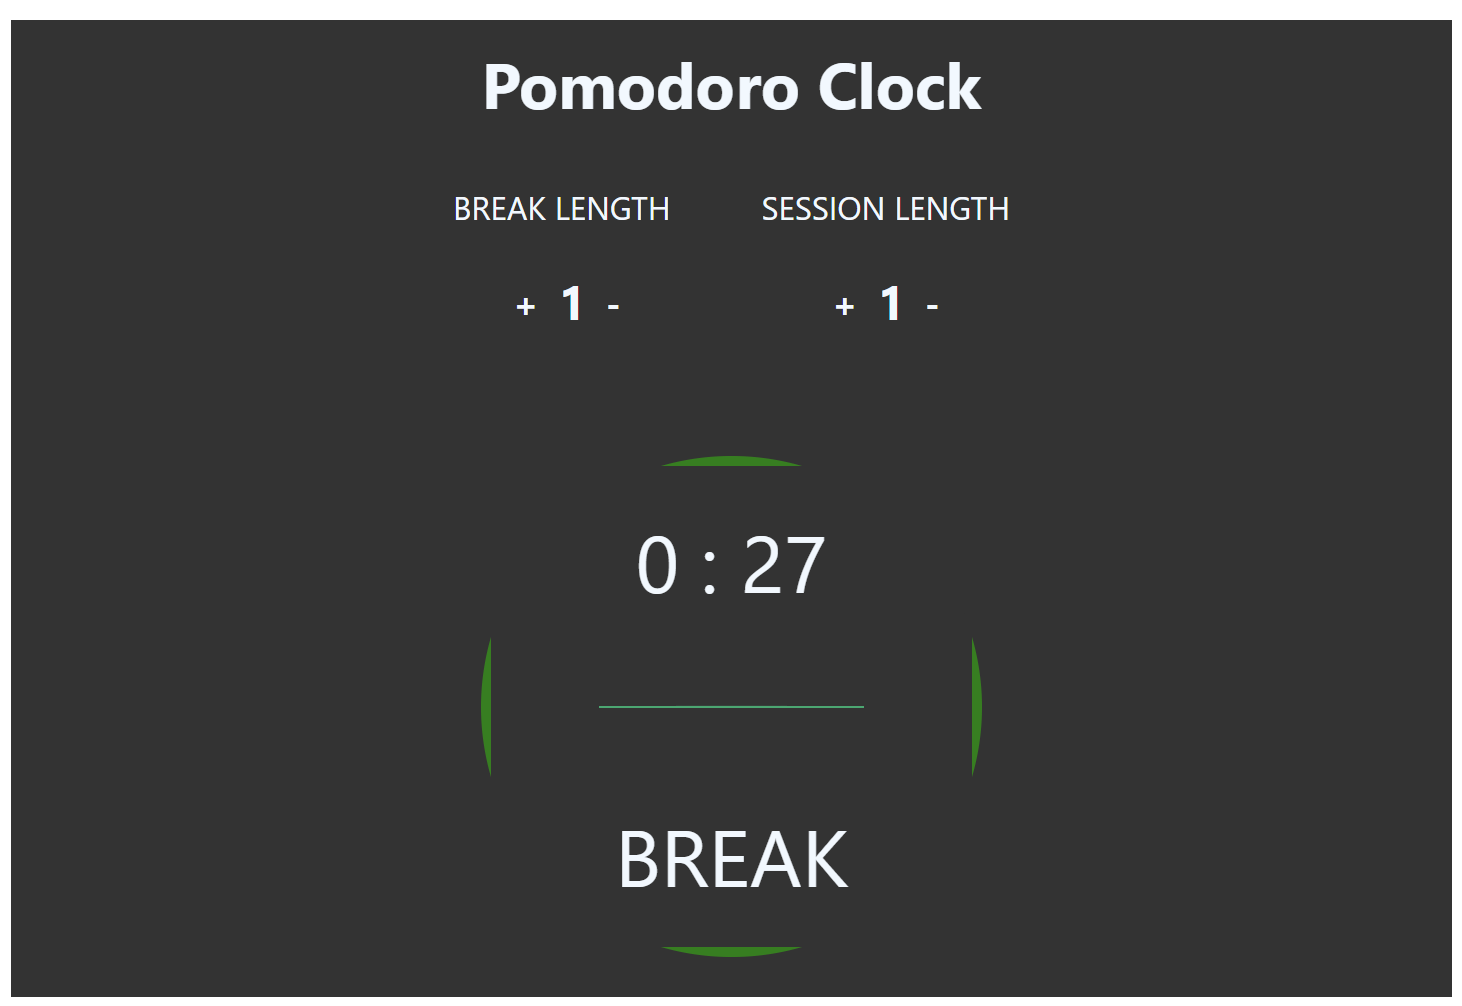
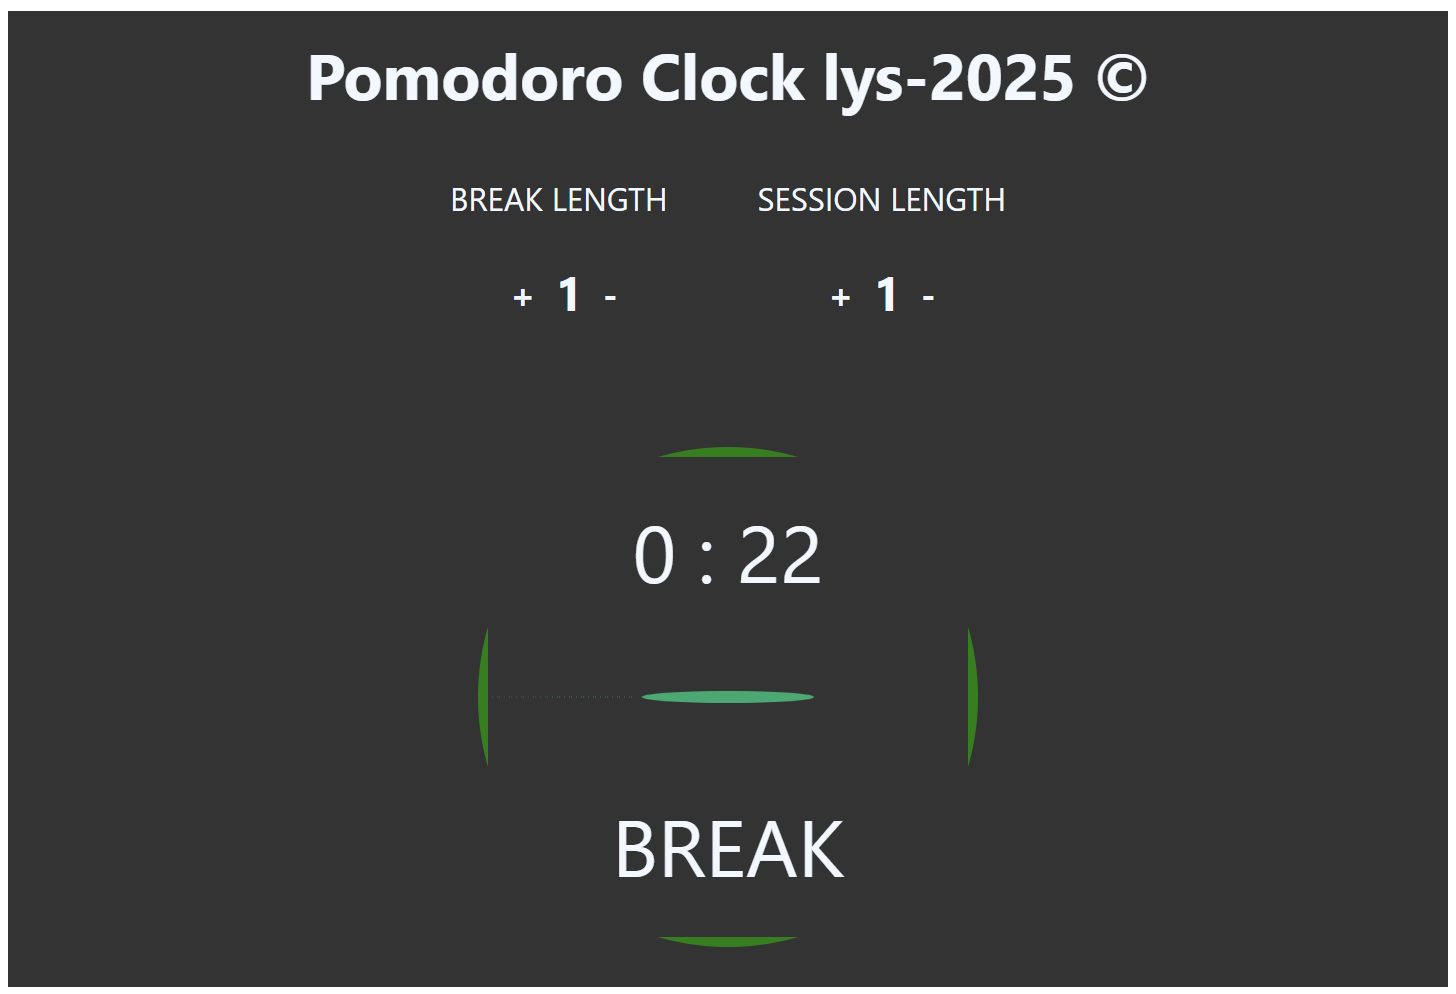
update index

diff --git a/AdvancedJS/AssignmentPomodoroClock/index.js b/AdvancedJS/AssignmentPomodoroClock/index.js
@@ -4,9 +4,9 @@ const breakObj = {
     contentCount: document.getElementById('break-content'),
     contentTimer: document.getElementById('display-break'),
     value: 1,
-    second: 60,
+    second: 0,
     timer: undefined,
-    isRunning: false
+    isRunning: false,
 }
 
 const sessionObj = {
@@ -15,7 +15,7 @@ const sessionObj = {
     contentCount: document.getElementById('session-content'),
     contentTimer: document.getElementById('display-session'),
     value: 1,
-    second: 60,
+    second: 0,
     timer: undefined,
     isRunning: false,
 }
@@ -23,22 +23,23 @@ const sessionObj = {
 slider = {
     display: document.querySelector('.display'),
     area: document.querySelector('.slider'),
-    firstValue: 0,
-    value: 0
+    firstValueSession: 0,
+    firstValueBreak: 0,
+    value: 0,
+    sliderWidth: 0
 }
 
-let timer;
 let isTimerRunning = false
 
 breakObj.plusBtn.onclick = () => {
-    if (!sessionObj.isRunning && !breakObj.isRunning) {
+    if (!isTimerRunning) {
         breakObj.value++
         breakObj.contentCount.textContent = breakObj.value
     }
-
 }
+
 breakObj.minusBtn.onclick = () => {
-    if (!sessionObj.isRunning && !breakObj.isRunning) {
+    if (!isTimerRunning) {
         breakObj.value--
         if (breakObj.value < 0) breakObj.value = 0
         breakObj.contentCount.textContent = breakObj.value
@@ -46,14 +47,14 @@ breakObj.minusBtn.onclick = () => {
 }
 
 sessionObj.plusBtn.onclick = () => {
-    if (!sessionObj.isRunning && !breakObj.isRunning) {
+    if (!isTimerRunning) {
         sessionObj.value++
         sessionObj.contentCount.textContent = sessionObj.value
     }
 }
 
 sessionObj.minusBtn.onclick = () => {
-    if (!sessionObj.isRunning && !breakObj.isRunning) {
+    if (!isTimerRunning) {
         sessionObj.value--
         if (sessionObj.value <= 0) sessionObj.value = 0
         sessionObj.contentCount.textContent = sessionObj.value
@@ -63,12 +64,9 @@ sessionObj.minusBtn.onclick = () => {
 const pauseTimer = (t) => {
     clearInterval(t);
     isTimerRunning = false
-    console.log('pause timer');
-    
 }
 
 const resetValue = () => {
-    
     isTimerRunning = false
     sessionObj.isRunning = false
     sessionObj.value = sessionObj.contentCount.textContent
@@ -76,108 +74,104 @@ const resetValue = () => {
     breakObj.isRunning = false
     breakObj.value = breakObj.contentCount.textContent
 
-    console.log('resetValue');
-    pauseTimer(timer)
+    if (sessionObj.value == 1 && !sessionObj.isRunning) slider.firstValueSession = (sessionObj.value * 60)
+    else slider.firstValueSession = (sessionObj.value * 60) + sessionObj.second
 
+    if (breakObj.value == 1 && !breakObj.isRunning) slider.firstValueBreak = (breakObj.value * 60)
+    else slider.firstValueBreak = (breakObj.value * 60) + breakObj.second
+}
+
+const sessionTimer = () => {
+    sessionObj.isRunning = true;
+    if (sessionObj.value == 1) sessionObj.second = 0
+
+    slider.width = 0
+
+    sessionObj.timer = setInterval(() => {
+        isTimerRunning = true
+
+        sessionObj.second--;
+        if (sessionObj.second <= 0) {
+            sessionObj.second = 60
+            sessionObj.value--
+        }
+
+        sessionObj.contentTimer.textContent = `${sessionObj.value} : ${sessionObj.second}`
+        slider.value = (sessionObj.value * 60) + sessionObj.second
+        slider.width = parseInt((100 * (slider.value)) / slider.firstValueSession)
+
+        if (sessionObj.value < 0) {
+            sessionObj.contentTimer.textContent = 'SESSION'
+            sessionObj.second = 0
+            sessionObj.value = 0
+            slider.width = 0
+            pauseTimer(sessionObj.timer)
+            sessionObj.isRunning = true
+            isTimerRunning = false
+            startTimer('BREAK')
+        }
+        // console.log('sliderWidth:', slider.width, slider.firstValueSession);
+
+        slider.area.style.width = `${slider.width}%`
+
+    }, 200);
+}
+
+const breakTimer = () => {
+    breakObj.isRunning = true;
+    if (breakObj.value == 1) breakObj.second = 0
+
+    slider.width = 0
+
+    breakObj.timer = setInterval(() => {
+        isTimerRunning = true
+
+        breakObj.second--;
+        if (breakObj.second <= 0) {
+            breakObj.second = 60
+            breakObj.value--
+        }
+
+        breakObj.contentTimer.textContent = `${breakObj.value} : ${breakObj.second}`
+        slider.value = (breakObj.value * 60) + breakObj.second
+        slider.width = parseInt((100 * (slider.value)) / slider.firstValueBreak)
+
+        if (breakObj.value < 0) {
+            breakObj.contentTimer.textContent = 'BREAK'
+            breakObj.second = 0
+            breakObj.value = 0
+            pauseTimer(breakObj.timer)
+            resetValue()
+        }
+
+        // console.log('sliderWidth:', slider.width, slider.firstValueBreak);
+
+        slider.area.style.width = `${slider.width}%`
+
+    }, 200);
 }
 
 const startTimer = (timerSession) => {
-
-    this.timerSession = timerSession
-    // this.timer=timer
-
-    if (timerSession === 'SESSION') {
-        sessionObj.isRunning = true;
-        if (sessionObj.value == 1) sessionObj.second = 0
-    }
-    if (timerSession === 'BREAK') {
-        breakObj.isRunning = true;
-        if (breakObj.value == 1) breakObj.second = 0
-
-    }
-    console.log(timerSession);
-
-    this.timer=timer= setInterval(() => {
-
-        isTimerRunning = true
-        let sliderWidth = 0
-
-        if (this.timerSession === 'SESSION') {
-            sessionObj.second--;
-            if (sessionObj.second <= 0) {
-                sessionObj.second = 60
-                sessionObj.value--
-            }
-
-            sessionObj.contentTimer.textContent = `${sessionObj.value} : ${sessionObj.second}`
-            slider.value = (sessionObj.value * 60) + sessionObj.second
-            sliderWidth = 100 - parseInt((100 * (slider.value)) / slider.firstValue)
-
-            if (sessionObj.value < 0) {
-                sessionObj.contentTimer.textContent = 'SESSION'
-                sessionObj.second = 0
-                sessionObj.value = 0
-
-                breakObj.isRunning = true
-                sliderWidth = 0
-                startTimer('BREAK')
-            }
-        }
-        else if(this.timerSession === 'BREAK'){
-            breakObj.second--;
-            if (breakObj.second <= 0) {
-                breakObj.second = 60
-                breakObj.value--
-            }
-
-            breakObj.contentTimer.textContent = `${breakObj.value} : ${breakObj.second}`
-            slider.value = (breakObj.value * 60) + breakObj.second
-            sliderWidth = 100 - parseInt((100 * (slider.value)) / slider.firstValue)
-
-            if (breakObj.value < 0) {
-                breakObj.contentTimer.textContent = 'BREAK'
-                breakObj.second = 0
-                breakObj.value = 0
-                pauseTimer(this.timer)
-                // resetValue()
-
-            }
-
-        }
-        // console.log('isTimerRunning', isTimerRunning);        
-        // console.log('sliderWidth:', sliderWidth, slider.firstValue);
-        slider.area.style.width = `${sliderWidth}%`
-
-    }, 200);
-
-
+    if (timerSession === 'SESSION') sessionTimer()
+    if (timerSession === 'BREAK') breakTimer()
+    // console.log(timerSession);
 }
-
-console.log(slider);
 
 slider.display.onclick = () => {
-
-    if (sessionObj.value == 1 && !sessionObj.isRunning) slider.firstValue = (sessionObj.value * 60)
-    else slider.firstValue = (sessionObj.value * 60) + sessionObj.second
-
-    if (breakObj.value == 1 && !breakObj.isRunning) slider.firstValue = (breakObj.value * 60)
-    else slider.firstValue = (breakObj.value * 60) + breakObj.second
-
-    if ((!sessionObj.isRunning && !breakObj.isRunning && !isTimerRunning) || 
-        (sessionObj.isRunning && !breakObj.isRunning && !isTimerRunning)) {
+    if ((!sessionObj.isRunning && !breakObj.isRunning && !isTimerRunning) ||
+        (sessionObj.isRunning && !breakObj.isRunning && !isTimerRunning))
         startTimer('SESSION')
 
-    }
 
-    if ((sessionObj.isRunning && breakObj.isRunning  && !isTimerRunning)|| 
-        (sessionObj.isRunning && breakObj.isRunning && !isTimerRunning))
+    if ((sessionObj.isRunning && breakObj.isRunning && !isTimerRunning))
         startTimer('BREAK')
 
-    if (isTimerRunning) pauseTimer(timer)
+    if (isTimerRunning && sessionObj.isRunning && !breakObj.isRunning) pauseTimer(sessionObj.timer)
+    if (isTimerRunning && sessionObj.isRunning && breakObj.isRunning) pauseTimer(breakObj.timer)
 
-    console.log('disp click', isTimerRunning);
+
+    console.log('timer runnign:' + isTimerRunning, sessionObj, breakObj);
 
 }
 
-
-
+resetValue()

diff --git a/AdvancedJS/AssignmentPomodoroClock/index.html b/AdvancedJS/AssignmentPomodoroClock/index.html
@@ -12,7 +12,7 @@
 <body>
     <main>
         <header>
-            <h1>Pomodoro Clock</h1>
+            <h1>Pomodoro Clock lys-2025 &#169</h1>
         </header>
         <section>
             <div class="break">
@@ -38,13 +38,11 @@
                 <div>
                     <h1 id="display-session">SESSION</h1>
                 </div>
-
                 <!-- <input type="range" min="1" max="100" value="0" class="slider" id="myRange"> -->
                 <div class="slider"></div>
                 <div>
                     <h1 id="display-break">BREAK</h1>
                 </div>
-
             </div>
         </section>
     </main>

diff --git a/AdvancedJS/AssignmentPomodoroClock/style.css b/AdvancedJS/AssignmentPomodoroClock/style.css
@@ -52,7 +52,8 @@ section div {
   height: 1px;
   width: 0%;
   background-color: #04aa6d;
-  margin: auto;
+  margin:auto;
+  padding: 3px;
 }
 a {
   font-size: 18px;

diff --git a/AdvancedJS/AssignmentPomodoroClock/README.md b/AdvancedJS/AssignmentPomodoroClock/README.md
@@ -1,0 +1,10 @@
+<h1 align="center">Pomodoro Clock</h1>
+<p  align="center">
+<img src="./images/clock.png" alt="pelus" width="50%" height="50%" align="center" style="margin:10px">
+</p>
+
+### If you work this app :
+- Set timers to set with '+' or '-' keys.
+- Click display area and see what is going on.
+
+
